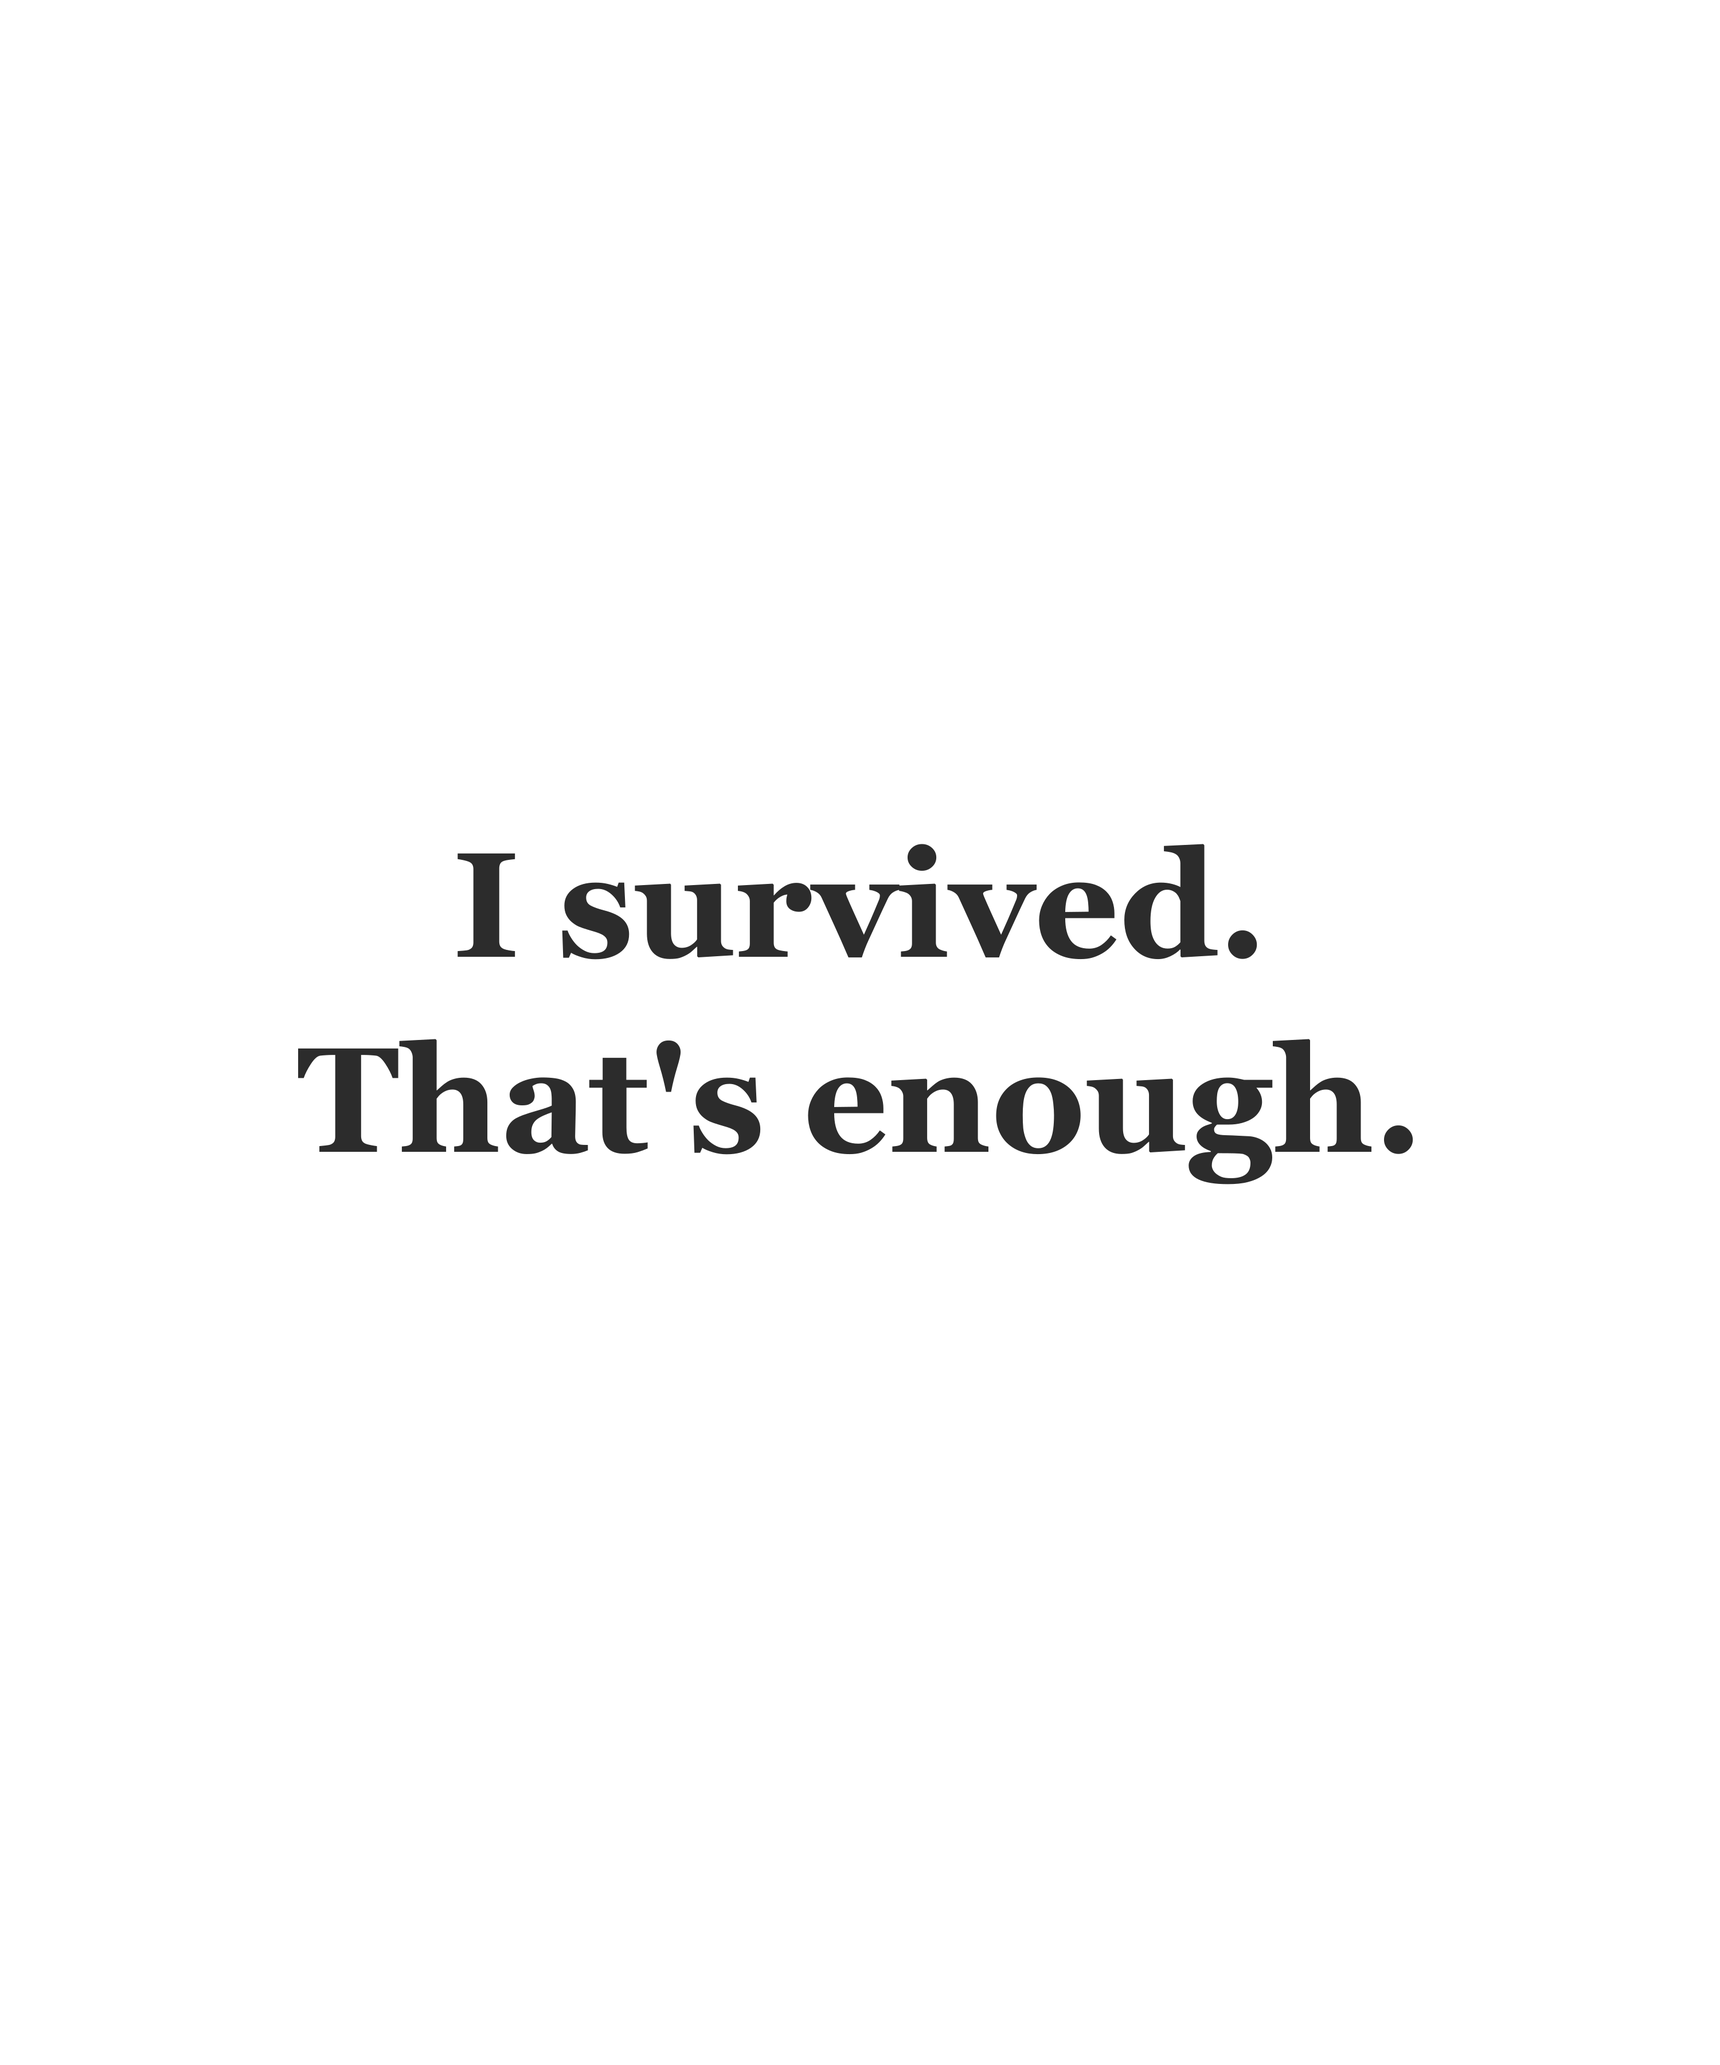
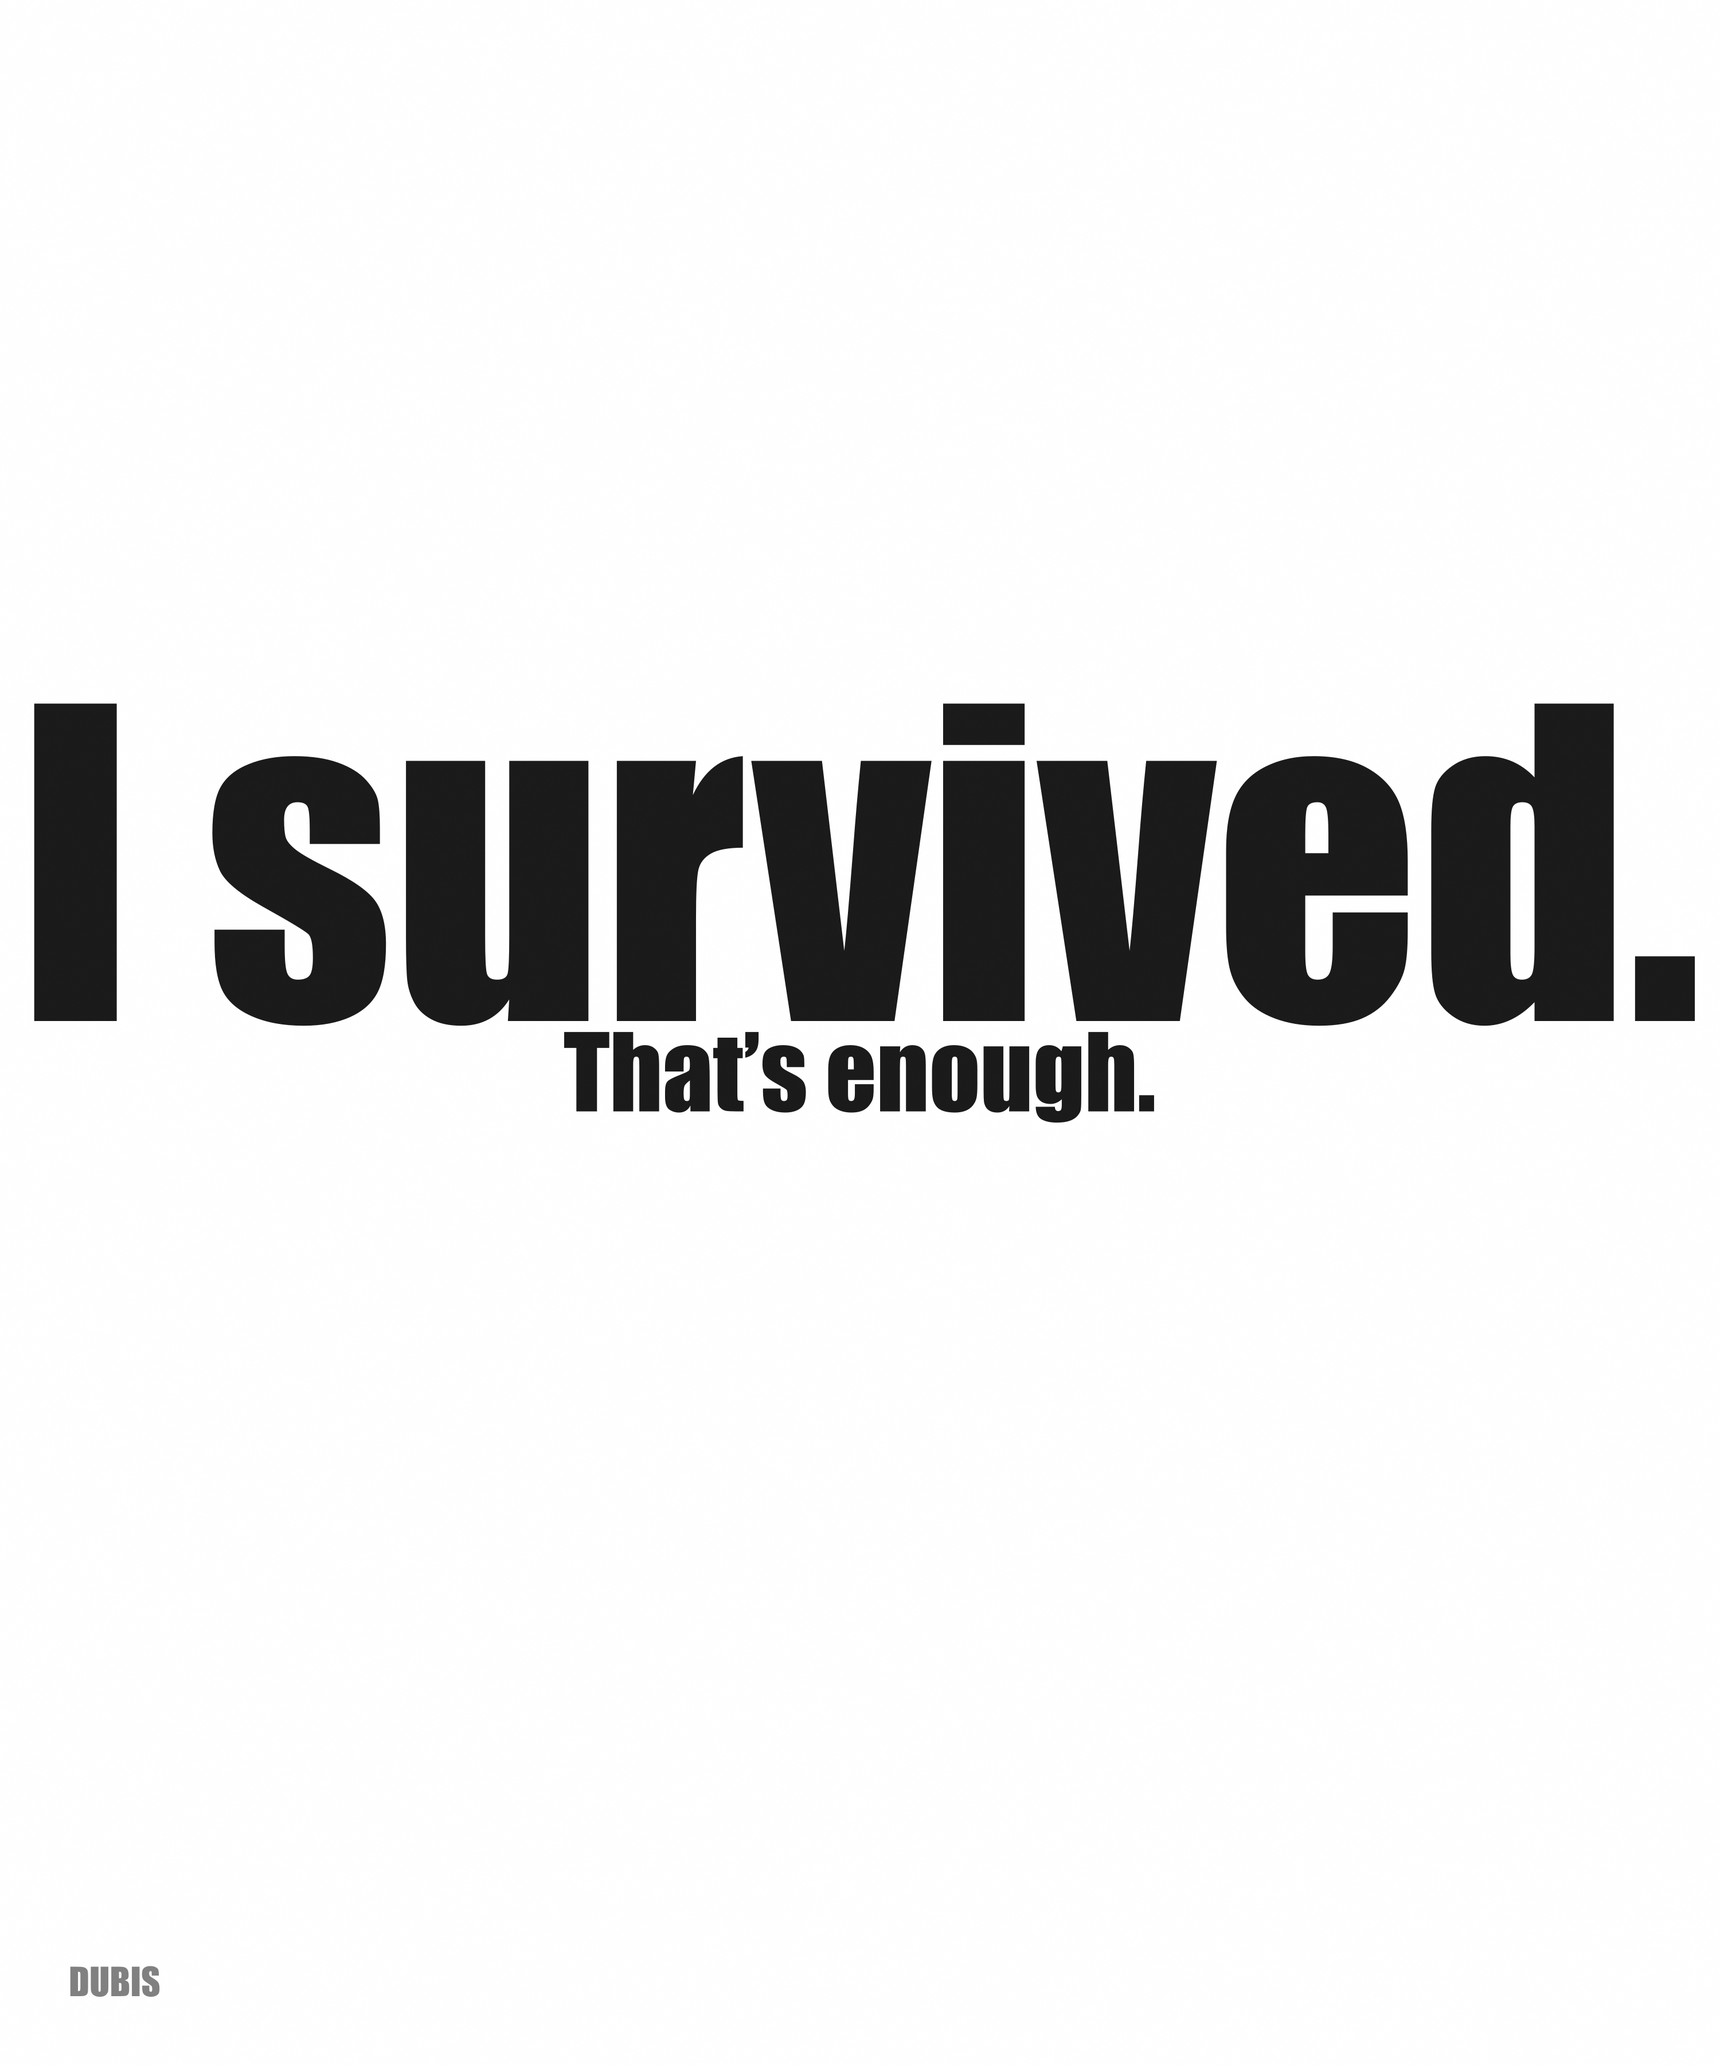
feat: regenerate all 30 print design PNGs at Gelato-compliant resolution
- Back designs: 3000x3600px, 3.4-3.5MB each (14 products x 2 variants)
- Front logos: 3600x4200px, 4.6MB each (2 variants)
- Cap designs: 1800x900px, 525KB each (2 variants)
- All files > 200KB minimum (Gelato requirement)
- Typography: Impact font with dramatic size contrast per slogan
- Added generation script: scripts/generate-designs.js

Changed region(s): [[0.124, 0.3422, 0.992, 0.5911], [0.0, 0.3422, 0.093, 0.4978], [0.031, 0.9333, 0.093, 0.9644]]

diff --git a/scripts/generate-designs.js b/scripts/generate-designs.js
@@ -1,0 +1,344 @@
+'use strict';
+
+/**
+ * DUBIS Design Generator
+ * Generates all print-ready PNG design files using node-canvas + Impact font.
+ *
+ * Run:  node scripts/generate-designs.js
+ * Deps: npm install canvas  (in dubis-website/)
+ */
+
+const { createCanvas, registerFont } = require('canvas');
+const fs   = require('fs');
+const path = require('path');
+
+// ---------------------------------------------------------------------------
+// Font registration
+// Impact is pre-installed on Windows. Register it so canvas can use it.
+// ---------------------------------------------------------------------------
+const IMPACT_PATH = 'C:\\Windows\\Fonts\\impact.ttf';
+if (fs.existsSync(IMPACT_PATH)) {
+  registerFont(IMPACT_PATH, { family: 'Impact' });
+  console.log('Registered Impact font from Windows Fonts.');
+} else {
+  console.warn('WARNING: Impact font not found at', IMPACT_PATH,
+    '— canvas will fall back to a system font. Output may differ.');
+}
+
+// ---------------------------------------------------------------------------
+// Output directory
+// ---------------------------------------------------------------------------
+const OUTPUT_DIR = path.join(__dirname, '..', 'designs');
+if (!fs.existsSync(OUTPUT_DIR)) {
+  fs.mkdirSync(OUTPUT_DIR, { recursive: true });
+  console.log('Created output directory:', OUTPUT_DIR);
+}
+
+// ---------------------------------------------------------------------------
+// Product definitions
+// ---------------------------------------------------------------------------
+const PRODUCTS = [
+  { id: 1,  phrase: "I'm not fat, I'm a limited edition", layout: 'top-bottom',
+    small: "I am not fat, I am a", big: "LIMITED",   after: "edition."           },
+  { id: 2,  phrase: "More of me to love",                 layout: 'top-bottom',
+    small: "more of me",           big: "LOVE",       after: ""                  },
+  { id: 3,  phrase: "Napping is my cardio",               layout: 'top-bottom',
+    small: "NAPPING IS MY",        big: "CARDIO",     after: ""                  },
+  { id: 4,  phrase: "I survived. That's enough.",         layout: 'top-bottom',
+    small: "",                     big: "I survived.", after: "That\u2019s enough." },
+  { id: 5,  phrase: "Low maintenance, high value",        layout: 'top-bottom',
+    small: "low maintenance",      big: "VALUE",      after: "high"              },
+  { id: 6,  phrase: "Not a model. Never wanted to be.",   layout: 'top-bottom',
+    small: "Not a model.",         big: "NEVER.",     after: "wanted to be."     },
+  { id: 7,  phrase: "DUBIS — For the rest of us",         type:   'cap',
+    small: "DUBIS",                big: "",           after: "For the rest of us" },
+  { id: 8,  phrase: "Born to nap, forced to work",        layout: 'big-top',
+    small: "",                     big: "NAP",        after: "Born to nap, forced to work" },
+  { id: 9,  phrase: "Certified overthinker",              layout: 'top-bottom',
+    small: "certified",            big: "OVER",       after: "thinker."          },
+  { id: 10, phrase: "Serial napper",                      layout: 'top-bottom',
+    small: "serial",               big: "NAPPER",     after: ""                  },
+  { id: 11, phrase: "She believed she could, so she took a nap", layout: 'top-bottom',
+    small: "She believed she could,\nso she took a",  big: "NAP.", after: ""     },
+  { id: 12, phrase: "I run on coffee and sarcasm",        layout: 'big-top',
+    small: "",                     big: "COFFEE",     after: "I run on coffee and sarcasm." },
+  { id: 13, phrase: "Zero Motivation Club",               layout: 'top-bottom',
+    small: "Zero Motivation",      big: "CLUB",       after: ""                  },
+  { id: 14, phrase: "Emotionally attached to my couch",  layout: 'top-bottom',
+    small: "emotionally attached to my", big: "COUCH", after: ""                },
+];
+
+// ---------------------------------------------------------------------------
+// Canvas helpers
+// ---------------------------------------------------------------------------
+function setFont(ctx, size) {
+  // Impact is inherently bold/condensed — no weight needed
+  ctx.font = `${size}px "Impact"`;
+}
+
+/**
+ * Add imperceptibly subtle noise across the canvas.
+ * This defeats PNG deflate compression and pushes files above 200 KB
+ * without any visible effect on the design.
+ * alpha: 0–255 — keep <= 2 for true invisibility (1 is safe).
+ */
+function addNoise(ctx, width, height, alpha = 1) {
+  const imageData = ctx.getImageData(0, 0, width, height);
+  const data      = imageData.data;
+  // Simple LCG pseudo-random to avoid Math.random() per-pixel overhead
+  let seed = 0xDEADBEEF;
+  for (let i = 0; i < data.length; i += 4) {
+    seed = (seed * 1664525 + 1013904223) & 0xFFFFFFFF;
+    const noise = (seed >>> 24) & 0x01; // 0 or 1
+    if (noise) {
+      data[i]     = (data[i]     + 1) & 0xFF; // R
+      data[i + 1] = (data[i + 1] + 1) & 0xFF; // G
+      data[i + 2] = (data[i + 2] + 1) & 0xFF; // B
+      if (data[i + 3] === 0) data[i + 3] = alpha; // force slight alpha on transparent px
+    }
+  }
+  ctx.putImageData(imageData, 0, 0);
+}
+
+/**
+ * Draw text centered horizontally, potentially multi-line.
+ * Returns the y-position after the last line.
+ */
+function drawCenteredText(ctx, text, x, y, lineHeight) {
+  const lines = text.split('\n');
+  for (const line of lines) {
+    ctx.fillText(line, x, y);
+    y += lineHeight;
+  }
+  return y;
+}
+
+/**
+ * Measure the width of the widest line in a potentially multi-line string.
+ */
+function measureMaxWidth(ctx, text) {
+  return Math.max(...text.split('\n').map(l => ctx.measureText(l).width));
+}
+
+// ---------------------------------------------------------------------------
+// Back design generator  (3000 × 3600 px)
+// ---------------------------------------------------------------------------
+const BACK_W = 3000;
+const BACK_H = 3600;
+
+const BIG_SIZE   = 700;  // dominant word font size
+const SMALL_SIZE = 175;  // secondary text font size
+const AFTER_SIZE = 175;
+const DUBIS_SIZE =  65;  // watermark corner text
+
+/**
+ * Generates one back design PNG.
+ * @param {object} product
+ * @param {string} color  'white' | 'dark'
+ * @param {string} outPath
+ */
+function generateBack(product, color, outPath) {
+  const canvas = createCanvas(BACK_W, BACK_H);
+  const ctx    = canvas.getContext('2d');
+
+  // Transparent background — canvas is transparent by default
+  ctx.clearRect(0, 0, BACK_W, BACK_H);
+
+  const textColor = color === 'white' ? '#ffffff' : '#1a1a1a';
+  ctx.fillStyle   = textColor;
+  ctx.textAlign   = 'center';
+  ctx.textBaseline = 'alphabetic';
+
+  const centerX = BACK_W / 2;
+
+  // ---- layout: top-bottom ----
+  // small → BIG → after, stacked, positioned ~30% from top
+  if (product.layout === 'top-bottom') {
+    let curY = BACK_H * 0.30;
+
+    // Small text
+    if (product.small) {
+      setFont(ctx, SMALL_SIZE);
+      const smallLineH = SMALL_SIZE * 1.15;
+      curY = drawCenteredText(ctx, product.small, centerX, curY, smallLineH);
+      curY += SMALL_SIZE * 0.2; // gap
+    }
+
+    // BIG word
+    if (product.big) {
+      setFont(ctx, BIG_SIZE);
+      ctx.fillText(product.big, centerX, curY + BIG_SIZE);
+      curY += BIG_SIZE * 1.05 + BIG_SIZE * 0.15; // advance + gap
+    }
+
+    // After text
+    if (product.after) {
+      setFont(ctx, AFTER_SIZE);
+      const afterLineH = AFTER_SIZE * 1.15;
+      curY += AFTER_SIZE * 0.1;
+      drawCenteredText(ctx, product.after, centerX, curY, afterLineH);
+    }
+  }
+
+  // ---- layout: big-top ----
+  // BIG word at top, small/after text below
+  else if (product.layout === 'big-top') {
+    let curY = BACK_H * 0.25;
+
+    // BIG word
+    if (product.big) {
+      setFont(ctx, BIG_SIZE);
+      ctx.fillText(product.big, centerX, curY + BIG_SIZE);
+      curY += BIG_SIZE * 1.1;
+    }
+
+    // After text (body copy below the big word)
+    if (product.after) {
+      setFont(ctx, AFTER_SIZE);
+      const afterLineH = AFTER_SIZE * 1.2;
+      curY += AFTER_SIZE * 0.3;
+      drawCenteredText(ctx, product.after, centerX, curY, afterLineH);
+    }
+  }
+
+  // ---- DUBIS watermark — bottom-left corner ----
+  ctx.textAlign   = 'left';
+  ctx.textBaseline = 'alphabetic';
+  setFont(ctx, DUBIS_SIZE);
+  ctx.globalAlpha = 0.55;
+  ctx.fillText('DUBIS', 120, BACK_H - 120);
+  ctx.globalAlpha = 1.0;
+
+  // Subtle noise to ensure file size > 200 KB (defeats PNG compression)
+  addNoise(ctx, BACK_W, BACK_H, 1);
+
+  // Write file
+  const buffer = canvas.toBuffer('image/png');
+  fs.writeFileSync(outPath, buffer);
+  return buffer.length;
+}
+
+// ---------------------------------------------------------------------------
+// Front logo generator  (3600 × 4200 px)
+// ---------------------------------------------------------------------------
+const FRONT_W = 3600;
+const FRONT_H = 4200;
+const LOGO_FONT_SIZE = 130;
+
+function generateFrontLogo(color, outPath) {
+  const canvas = createCanvas(FRONT_W, FRONT_H);
+  const ctx    = canvas.getContext('2d');
+
+  ctx.clearRect(0, 0, FRONT_W, FRONT_H);
+
+  const textColor = color === 'white' ? '#ffffff' : '#1a1a1a';
+  ctx.fillStyle    = textColor;
+  ctx.textAlign    = 'left';
+  ctx.textBaseline = 'alphabetic';
+
+  // Left-chest area: ~30% from left, ~25% from top
+  const x = FRONT_W * 0.30;
+  const y = FRONT_H * 0.25;
+
+  setFont(ctx, LOGO_FONT_SIZE);
+  ctx.fillText('DUBIS\u2122', x, y);
+
+  // Subtle noise to ensure file size > 200 KB
+  addNoise(ctx, FRONT_W, FRONT_H, 1);
+
+  const buffer = canvas.toBuffer('image/png');
+  fs.writeFileSync(outPath, buffer);
+  return buffer.length;
+}
+
+// ---------------------------------------------------------------------------
+// Cap design generator  (1800 × 900 px)
+// ---------------------------------------------------------------------------
+const CAP_W = 1800;
+const CAP_H = 900;
+const CAP_FONT_SIZE = 220;
+
+function generateCap(color, outPath) {
+  const canvas = createCanvas(CAP_W, CAP_H);
+  const ctx    = canvas.getContext('2d');
+
+  ctx.clearRect(0, 0, CAP_W, CAP_H);
+
+  const textColor = color === 'white' ? '#ffffff' : '#1a1a1a';
+  ctx.fillStyle    = textColor;
+  ctx.textAlign    = 'center';
+  ctx.textBaseline = 'alphabetic';
+
+  setFont(ctx, CAP_FONT_SIZE);
+  ctx.fillText('DUBIS', CAP_W / 2, CAP_H / 2 + CAP_FONT_SIZE * 0.35);
+
+  // Subtle noise to ensure file size > 200 KB
+  addNoise(ctx, CAP_W, CAP_H, 1);
+
+  const buffer = canvas.toBuffer('image/png');
+  fs.writeFileSync(outPath, buffer);
+  return buffer.length;
+}
+
+// ---------------------------------------------------------------------------
+// Main — run all generators
+// ---------------------------------------------------------------------------
+const MIN_SIZE_BYTES = 200 * 1024; // 200 KB
+const warnings = [];
+let generated = 0;
+
+function reportFile(label, bytes) {
+  const kb = (bytes / 1024).toFixed(1);
+  if (bytes < MIN_SIZE_BYTES) {
+    const msg = `SMALL FILE WARNING: ${label} is only ${kb} KB (< 200 KB required)`;
+    warnings.push(msg);
+    console.warn('  [WARN]', msg);
+  } else {
+    console.log(`  OK  ${label} — ${kb} KB`);
+  }
+  generated++;
+}
+
+console.log('\n=== DUBIS Design Generator ===\n');
+
+// ---- Back designs (products 1-6, 8-14 — skip id 7 which is cap-only) ----
+console.log('--- Back designs ---');
+for (const p of PRODUCTS) {
+  if (p.type === 'cap') continue; // handled separately
+
+  for (const color of ['white', 'dark']) {
+    const filename = `back_design_${p.id}_${color}.png`;
+    const outPath  = path.join(OUTPUT_DIR, filename);
+    const bytes    = generateBack(p, color, outPath);
+    reportFile(filename, bytes);
+  }
+}
+
+// ---- Front logo ----
+console.log('\n--- Front logos ---');
+for (const color of ['white', 'dark']) {
+  const filename = `front_logo_${color}.png`;
+  const outPath  = path.join(OUTPUT_DIR, filename);
+  const bytes    = generateFrontLogo(color, outPath);
+  reportFile(filename, bytes);
+}
+
+// ---- Cap designs ----
+console.log('\n--- Cap designs ---');
+for (const color of ['white', 'dark']) {
+  const filename = `cap_design_${color}.png`;
+  const outPath  = path.join(OUTPUT_DIR, filename);
+  const bytes    = generateCap(color, outPath);
+  reportFile(filename, bytes);
+}
+
+// ---- Summary ----
+console.log(`\n=== Done. ${generated} files written to ${OUTPUT_DIR} ===`);
+if (warnings.length > 0) {
+  console.warn(`\n${warnings.length} file(s) are below the 200 KB minimum:`);
+  warnings.forEach(w => console.warn(' -', w));
+  console.warn('\nThese files may be rejected by Gelato. Consider increasing');
+  console.warn('canvas dimensions, font sizes, or adding decorative elements.');
+} else {
+  console.log('All files meet the 200 KB minimum size requirement.');
+}
